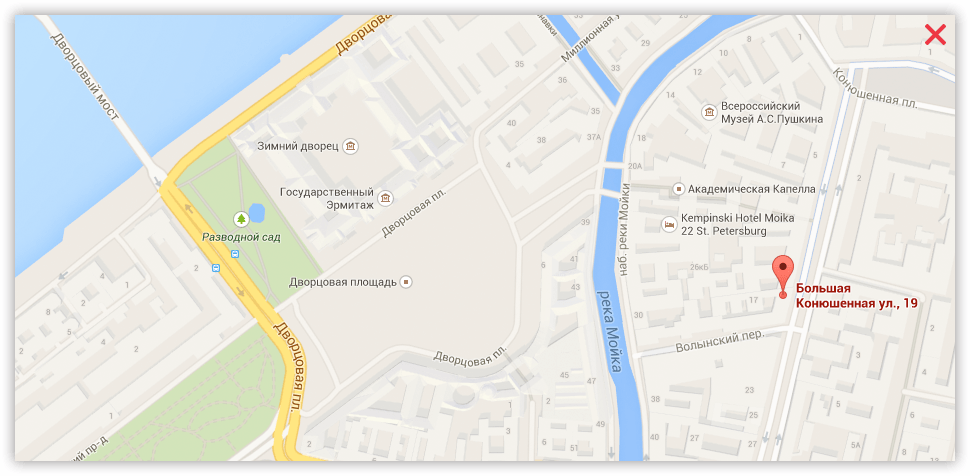
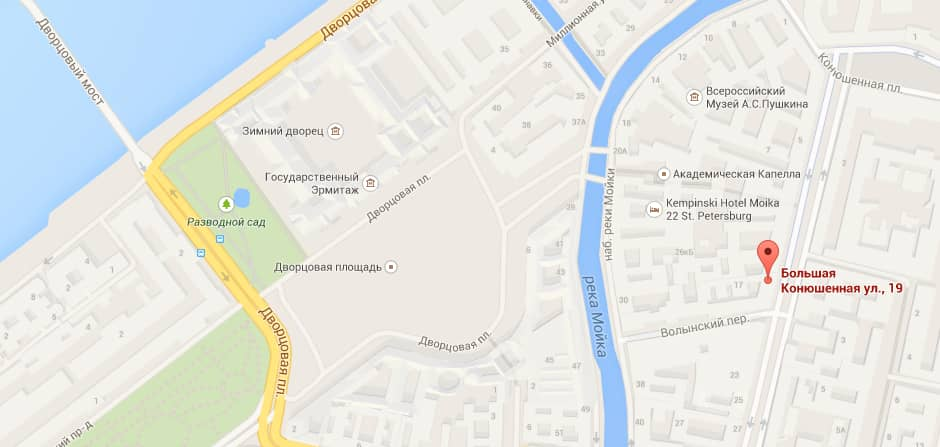
Добавлены попапы и некоторые формы

diff --git a/index.html b/index.html
@@ -9,9 +9,10 @@
 
   		<a>Техномарт</a>
 
-  		<div>
-  			Поиск: 
-  		</div>
+  		<form action="https://echo.htmlacademy.ru" method="get">
+  			<input type="search" name="search" id="search-field" placeholder="Поиск:" aria-label="Поиск по сайту">
+  		</form>
+  		
        
   		<a href="#">Закладки: 0</a>
   		<a href="#">Корзина: 0</a>
@@ -32,6 +33,16 @@
         	<a href="#">Войти</a>
         	<a href="#">Регистрация</a>
         </div>
+        <div>
+        	<a href="#">Равшан Джамшутович</a>
+        	<a href="#">
+        		<span class="visually-hidden">Выход</span>
+        	</a>
+        	<ul>
+        		<li><a href="#">Мои заказы</a></li>
+        		<li><a href="#">Личный кабинет</a></li>
+        	</ul>
+        </div>
         <nav>
         	<ul>
         		<li><a>Главня</a></li>
@@ -47,7 +58,7 @@
   	</header>
   	<main>
       <section>
-        <h2>Продукты и услуги интернет-магазина</h2>
+        <h2 class="visually-hidden">Продукты и услуги интернет-магазина</h2>
         <ul>
           <li>
             <h3>Материалы</h3>
@@ -201,10 +212,10 @@
          </div>
          <div>
             <div>
-           <button>Доставка</button>
-           <button>Гарантия</button>
-           <button>Кредит</button>
-            </div>
+              <button type="button">Доставка</button>
+              <button type="button">Гарантия</button>
+              <button type="button">Кредит</button>
+           </div>
            <div>
              <h2>Доставка</h2>
              <p>
@@ -261,9 +272,51 @@
   				</p>
   				  <a href="#">
   				     <img src="img/mini-map.png" width="300" height="158" alt="г. Санкт-Петербург, ул. Б. Конюшенная, д. 19/8">
-  			    </a>
+  			     </a>
                 <a href="#">Заблудились? Напишите нам</a>
   			</div> 
+  			<div>
+  				<button type="button">
+  				    <span class="visually-hidden">Закрыть</span>
+  			    </button>
+  			    <img src="img/map-popup.png" width="940" height="447" alt="г. Санкт-Петербург, ул. Б. Конюшенная, д. 19/8">
+  			</div>
+  			<form action="https://echo.htmlacademy.ru" method="post">
+  				<div>
+  					<p>
+  						<label for="name">Ваше имя:</label>
+  						<input type="text" name="name" id="name" placeholder="Имя Фамилия" required>
+  					</p>
+
+  					<p>
+  						<label for="email">Ваш e-mail:</label>
+  						<input type="email" name="email" id="email" placeholder="email@example.com" required>
+  					</p>
+
+  					<p>
+  					    <label for="field-text">Текст письма:</label>
+  					    <textarea name="field-text" id="field-text" placeholder="В свободной форме" required></textarea>
+  					</p>
+  				</div>
+  				<p>
+  					<button type="submit">Отправить</button>
+  				</p>
+  				<button type="button">
+  					<span class="visually-hidden">Закрыть</span>
+  				</button>
+  			</form>
+  			<div>
+  				<p>
+  					Товар добавлен в корзину 
+  				</p>
+  				<div>
+  					<button type="button">Оформить заказ</button>
+  					<a href="№">Продолжить покупки</a>
+  				</div>
+  				 <button type="button">
+  				    <span class="visually-hidden">Закрыть</span>
+  			     </button>
+  			</div>
   		</section>
   	</main>
     <footer>
@@ -272,7 +325,7 @@
     		<p>
     		  г. Санкт-Петербург, ул. Б. Конюшенная, д. 19/8
     	    </p>
-            <a href="#">
+            <a href="tel:+78125550555">
               +7 (812) 555-05-55
             </a>
     	</div>
@@ -297,9 +350,21 @@
     		</p>
     		<div>
     			<ul>
-    				<li><a href="#">Вконтакте</a></li>
-    				<li><a href="#">Фейсбук</a></li>
-    				<li><a href="#">Инстаграм</a></li>
+    				<li>
+    				   <a href="#">
+    				      <span class="visually-hidden">Вконтакте</span>
+    			       </a>
+    			   </li>
+    				<li>
+    				   <a href="#">
+    				      <span class="visually-hidden">Фейсбук</span>
+    			       </a>
+    		        </li>
+    				<li>
+    					<a href="#">
+    					   <span class="visually-hidden">Инстаграм</span>
+    				    </a>
+    			    </li>
     			</ul>
     		</div>
 

diff --git a/catalog.html b/catalog.html
@@ -9,9 +9,9 @@
 
   		<a href="index.html">Техномарт</a>
 
-  		<div>
-  			Поиск: 
-  		</div>
+  		<form action="https://echo.htmlacademy.ru" method="get">
+        <input type="search" name="search" id="search-field" placeholder="Поиск:" aria-label="Поиск по сайту">
+      </form>
        
   		<a href="#">Закладки: 0</a>
   		<a href="#">Корзина: 0</a>
@@ -29,9 +29,13 @@
         	</p>
         </div>
         <div>
+          <a href="#">Войти</a>
+          <a href="#">Регистрация</a>
+        </div>
+        <div>
         	<a href="#">Равшан Джамшутович</a>
         	<a href="#">
-        		<span>Выход</span>
+        		<span class="visually-hidden">Выход</span>
         	</a>
         	<ul>
         		<li><a href="#">Мои заказы</a></li>
@@ -56,9 +60,9 @@
   			<ul>
   				<li>
   				   <a href="index.html">
-  				       <span>Главаня</span>
-                   </a>
-  		         </li>
+  				       <span class="visually-hidden">Главаня</span>
+              </a>
+  		    </li>
   				<li><a href="#">Каталог</a></li>
   				<li><a href="#">Инструмент</a></li>
   				<li><a>Перфораторы</a></li>
@@ -229,6 +233,18 @@
           отбойный молоток и ударная дрель.
         </p>
       </div>
+      <div>
+          <p>
+            Товар добавлен в корзину 
+          </p>
+          <div>
+            <button type="button">Оформить заказ</button>
+            <a href="№">Продолжить покупки</a>
+          </div>
+             <button type="button">
+                 <span class="visually-hidden">Закрыть</span>
+             </button>
+        </div>
   	</main>
   	<footer>
     	<a href="index.html">Техномарт</a>
@@ -261,9 +277,21 @@
     		</p>
     		<div>
     			<ul>
-    				<li><a href="#">Вконтакте</a></li>
-    				<li><a href="#">Фейсбук</a></li>
-    				<li><a href="#">Инстаграм</a></li>
+    			   <li>
+                 <a href="#">
+                   <span class="visually-hidden">Вконтакте</span>
+                 </a>
+             </li>
+             <li>
+                 <a href="#">
+                   <span class="visually-hidden">Фейсбук</span>
+                 </a>
+             </li>
+             <li>
+                <a href="#">
+                  <span class="visually-hidden">Инстаграм</span>
+                </a>
+             </li>
     			</ul>
     		</div>
 
